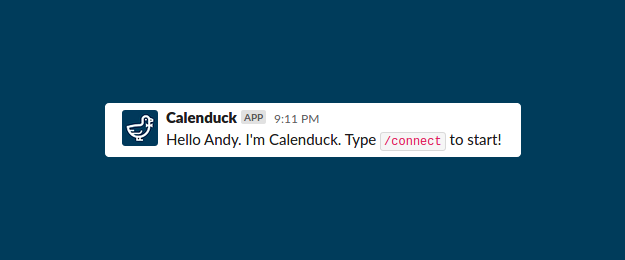
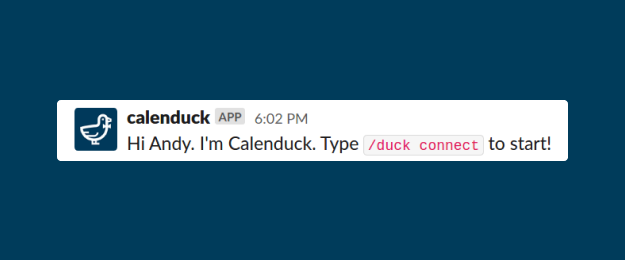
Change images

Changed region(s): [[0.0912, 0.3692, 0.912, 0.6462]]

diff --git a/templates/web/index.html b/templates/web/index.html
@@ -45,10 +45,10 @@
     <div class="container my-5 py-5">
         <div class="row align-items-center justify-content-center">
             <div class="col-lg-4 order-lg-2">
-                <h2 class="h1 font-weight-bold">/connect</h2>
-                <p class="lead">Slash connect, followed by your <a
+                <h2 class="h1 font-weight-bold">/duck connect</h2>
+                <p class="lead">Slash-duck-connect, followed by your <a
                         href="https://developer.calendly.com/v1/docs/getting-your-authentication-token" target="_blank"
-                        class="font-weight-bold cbot-link">Calendly authentication token</a> to authnticate your Slack
+                        class="font-weight-bold cbot-link">Calendly authentication token</a> to authenticate your Slack
                     profile with Calendly</p>
             </div>
             <div class="col-lg-6 order-lg-1 w-100">
